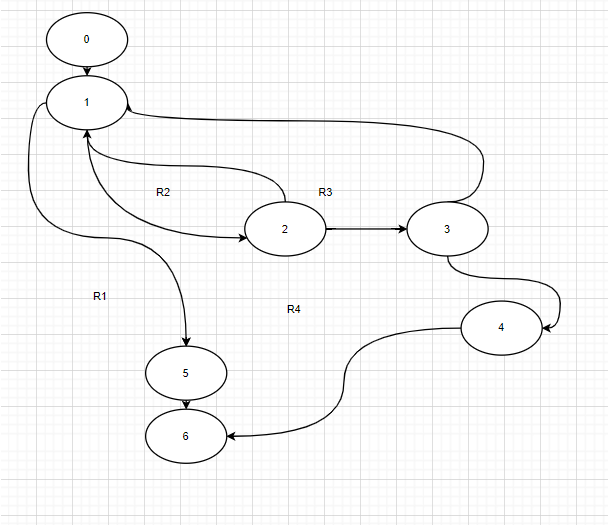
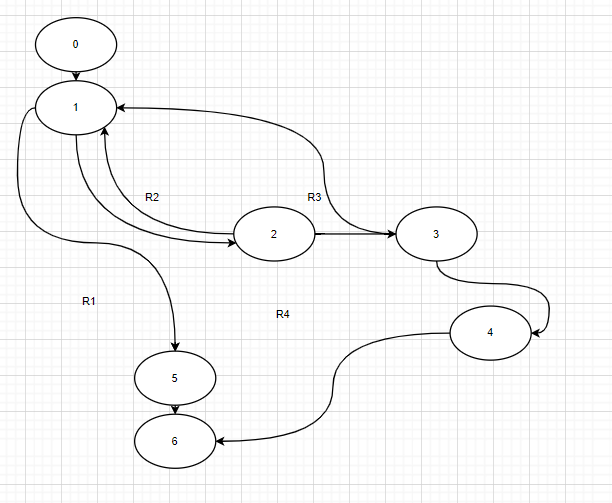
3com

diff --git a/UnitTestOfTimetableOfClasses/CTitle/Delete/whitebox.md b/UnitTestOfTimetableOfClasses/CTitle/Delete/whitebox.md
@@ -4,20 +4,20 @@
 ![alt text](graph.png)
 
 # **Маршруты на основании управляющего графа**  
-R1:0-1-2-11-12 
+R1:0-1-2-5-6
   
-R2:0-1-2-3-4-11-12  
+R2:0-1-2-1-5-6  
   
-R3:0-1-2-3-4-5-11-12  
+R3:0-1-2-3-1-5-6 
   
-R4:0-1-2-3-4-5-6-7-8-9-10-11-12 
+R4:0-1-2-3-4-6
   
 # **Таблица тестирования**  
 |  Регион| Идентификатор теста | Идея теста |Предварительное условие|  Входные параметры|Ожидаемый результат| Полученный результат| Статус теста|
 | ---| ---| ---  |--- | ---| ---|---| ---|
-| R1  |  Test_1 | Удаление ученой степени из пустой таблицы | Таблица пустая | "Ученая степень": "Кандидат технических наук"   "Сокращенное название ученой степени" "к.т.н."| false| false|Passed|
-| R2  |  Test_2 |  Удаление учетной степени при сооблюдении условия запрос совпадает с имеющимися значениями полного наименования при условии отсутствия алгоритма удаления  |"Ученая степень": "Кандидат технических наук"   "Сокращенное название ученой степени" "к.т.н." | "Ученая степень": "Кандидат технических наук"   "Сокращенное название ученой степени" "к.т.н."| false| false|Passed|
-| R3  |  Test_3 | Удаление учетной степени при сооблюдении условия запрос совпадает с имеющимися значениями как сокращенного названия так и полного при условии отсутствия алгоритма удаления  |"Ученая степень": "Кандидат технических наук"   "Сокращенное название ученой степени" "к.т.н." | "Ученая степень": "Кандидат технических наук"   "Сокращенное название ученой степени" "к.т.н."| false| false|Passed|
-| R4  |  Test_4 |  Удаление учетной степени при совпадающих значениях  |"Ученая степень": "Кандидат технических наук"   "Сокращенное название ученой степени" "к.т.н." | "Ученая степень": "Кандидат технических наук"   "Сокращенное название ученой степени" "к.т.н."| true| true|Passed|
+| R1  |  ICTitle_1 | Удаление ученой степени из пустой таблицы | Таблица пустая | "Ученая степень": "Кандидат технических наук"   "Сокращенное название ученой степени" "к.т.н."| false| false|Passed|
+| R2  |  ICTitle_2 |  Удаление учетной степени при сооблюдении условия запрос совпадает с имеющимися значениями полного наименования при условии отсутствия алгоритма удаления  |"Ученая степень": "Кандидат технических наук"   "Сокращенное название ученой степени" "к.т.н." | "Ученая степень": "Кандидат технических наук"   "Сокращенное название ученой степени" "к.т.н."| false| false|Passed|
+| R3  |  ICTitle_3 | Удаление учетной степени при сооблюдении условия запрос совпадает с имеющимися значениями как сокращенного названия так и полного при условии отсутствия алгоритма удаления  |"Ученая степень": "Кандидат технических наук"   "Сокращенное название ученой степени" "к.т.н." | "Ученая степень": "Кандидат технических наук"   "Сокращенное название ученой степени" "к.т.н."| false| false|Passed|
+| R4  |  ICTitle_4 |  Удаление учетной степени при совпадающих значениях  |"Ученая степень": "Кандидат технических наук"   "Сокращенное название ученой степени" "к.т.н." | "Ученая степень": "Кандидат технических наук"   "Сокращенное название ученой степени" "к.т.н."| true| true|Passed|
 # Вывод   
 Метод Delete может удалить или не удалить данные из таблицы - это зависит от входных данных. Тестирование “белым ящиком” позволяет проверить оба варианта метода. Большинство ошибок возникает из-за вводимых данных, поэтому требуется несколько однотипных тестов, проверяющих совпадение данных в таблице и входных данных.
